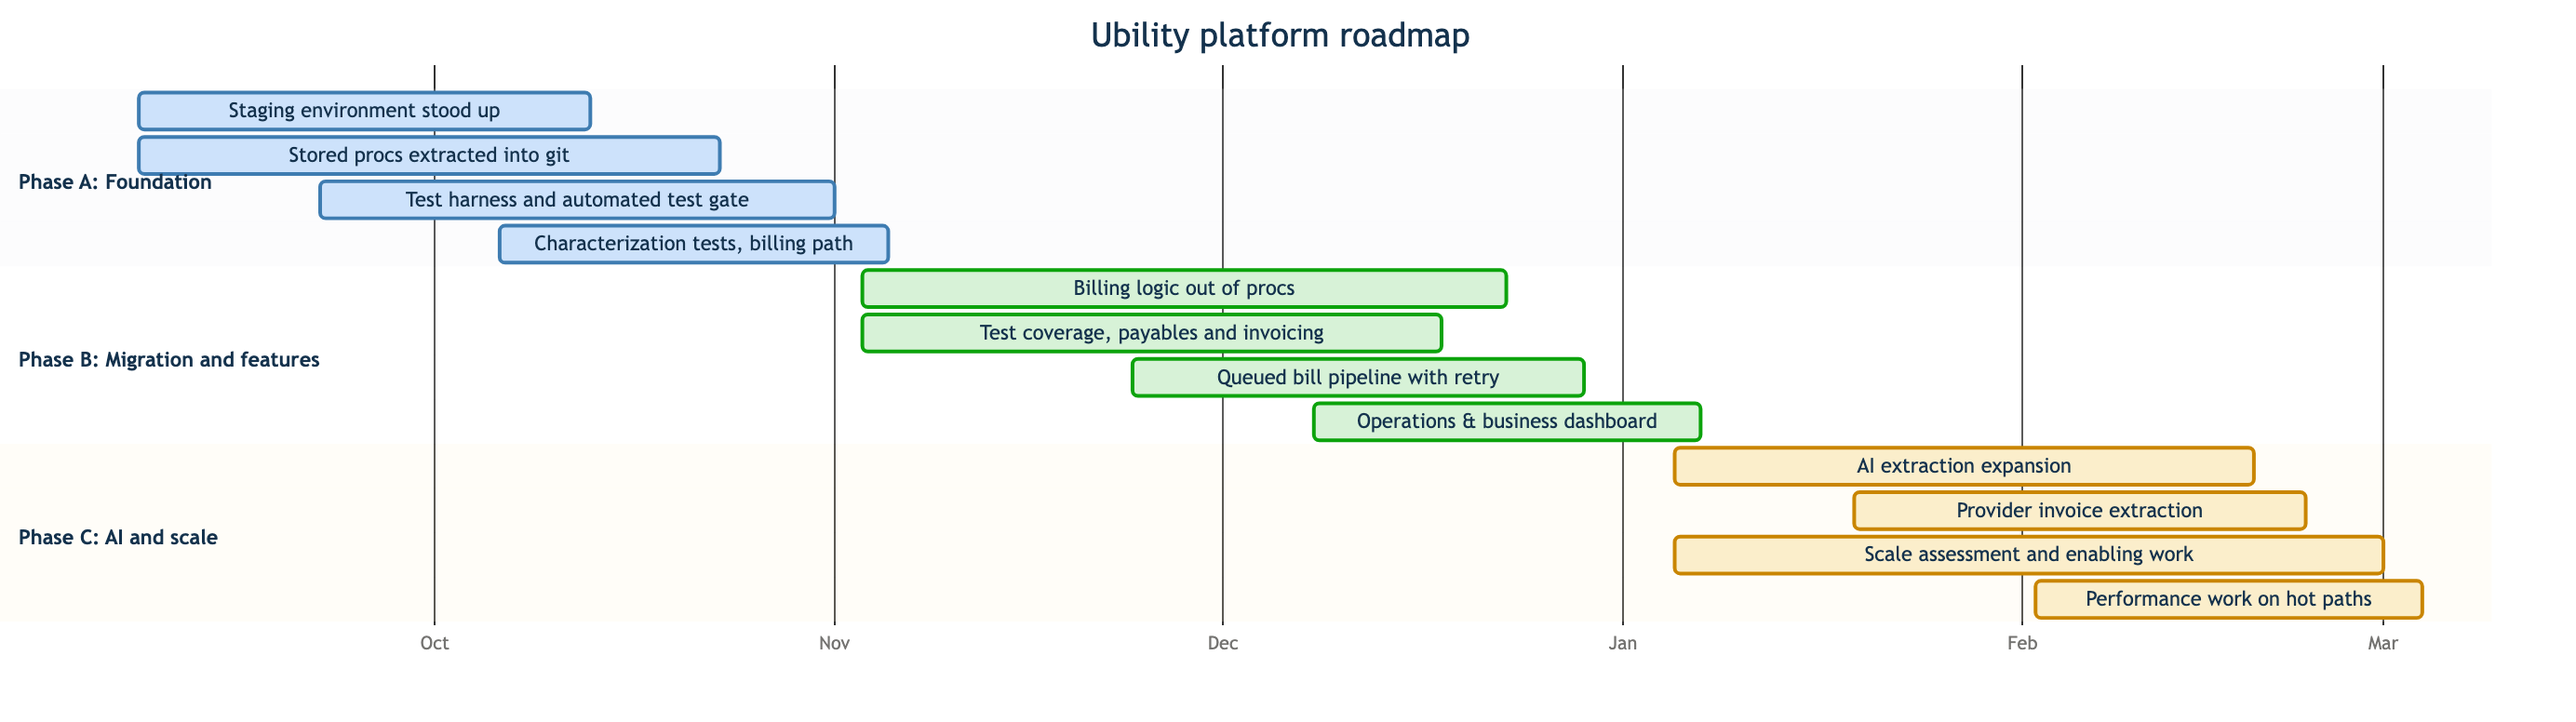
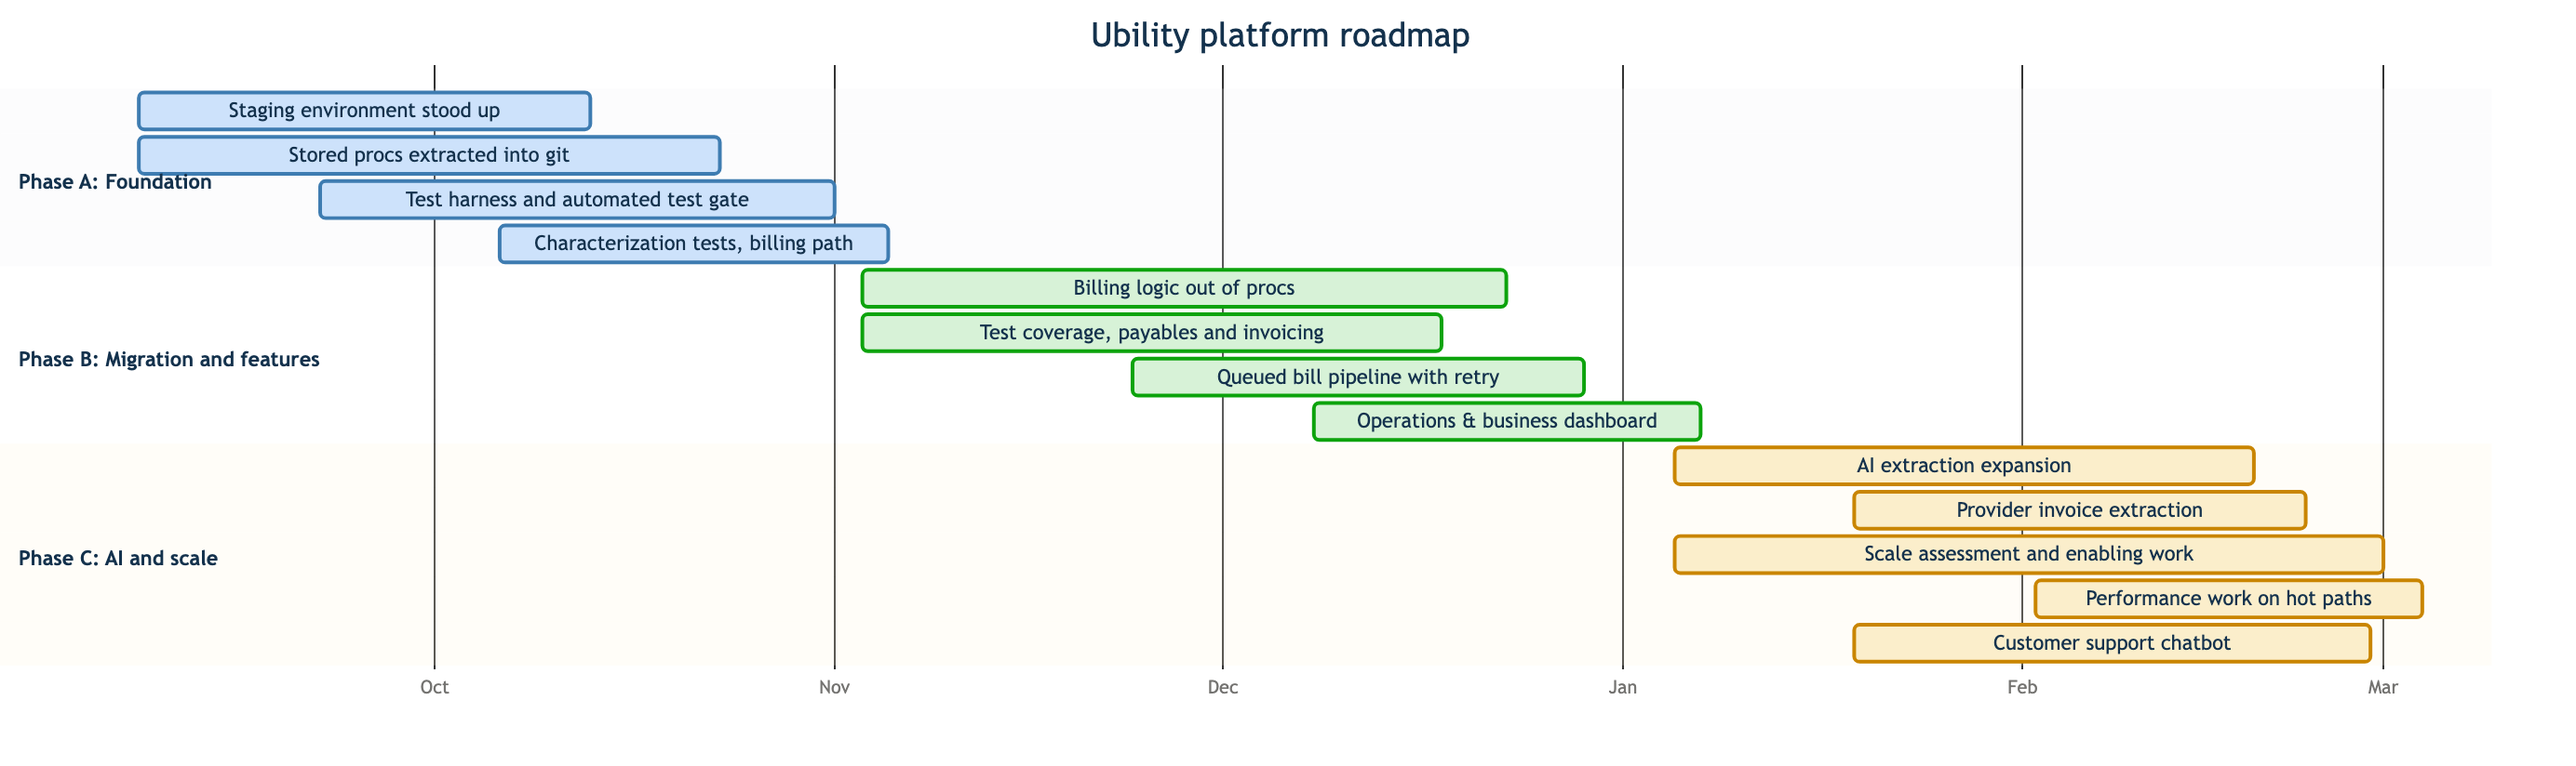
docs: scope in a customer support chatbot, add maintenance-only pricing tier
Adds a new roadmap item (16, Phase C): a customer-facing support
chatbot built on the existing Claude/c4-extract integration, answering
common billing/account questions with a handoff to a person for
anything it can't answer confidently. Wired into the executive
summary, the AI-approach section, the Gantt chart, and the Phase C
pricing scope summary.

Used "customer-facing" rather than "resident-facing" throughout,
matching Ubility's own wording in their meeting question and hedging
appropriately given we haven't confirmed residents are actually the
ones self-serving through the portal versus staff acting on their
behalf.

Also adds Option 3 to Pricing: a lower-cost, maintenance-only tier
($6,000/month) that only becomes available once the roadmap's
foundational work is complete, since the platform isn't safe for
hands-off maintenance before then. Gives concrete shape to the
existing "revisit scope together at the end of six months" line
elsewhere in the doc.

diff --git a/docs/projects/ubility/ongoing-partnership/ubility-partnership-proposal.md b/docs/projects/ubility/ongoing-partnership/ubility-partnership-proposal.md
@@ -12,7 +12,7 @@ Ubility has a working product with real customers, real revenue, and real third-
 
 ### The proposal
 
-Keystone is proposing a six-month, fixed-scope roadmap that turns this platform into something a team can safely change, test, and grow, not just keep alive: a staging environment and real test coverage first, then the highest-risk business logic moved out of the database into reviewable, tested code, the business-visibility tools Ubility has been asking for, and an expansion of the AI extraction already running in production, alongside a costed plan for real horizontal scale. **Keystone is already inside this codebase**: the six-repository audit is done, the original security report has been independently verified and corrected, and all 599 stored procedures are already inventoried, so none of that ramp-up gets billed here. The engineers doing the work have built production systems at Stripe, Microsoft, and Amazon, where a mistake is a public outage, not a support ticket, and every conversation is directly with the person doing the work, with no account layer in between. **Pricing is to the outcome, not the hour**, so the incentive on both sides is the same: get it done well, and get it done fast. And unlike the alternative Ubility is weighing, **nothing here locks Ubility in**: the code and infrastructure stay in Ubility's own accounts throughout, so this platform stays just as easy to hand to another firm, or bring in-house, as it is to keep working with Keystone.
+Keystone is proposing a six-month, fixed-scope roadmap that turns this platform into something a team can safely change, test, and grow, not just keep alive: a staging environment and real test coverage first, then the highest-risk business logic moved out of the database into reviewable, tested code, the business-visibility tools Ubility has been asking for, and an expansion of the AI extraction already running in production, including a customer-facing support chatbot, alongside a costed plan for real horizontal scale. **Keystone is already inside this codebase**: the six-repository audit is done, the original security report has been independently verified and corrected, and all 599 stored procedures are already inventoried, so none of that ramp-up gets billed here. The engineers doing the work have built production systems at Stripe, Microsoft, and Amazon, where a mistake is a public outage, not a support ticket, and every conversation is directly with the person doing the work, with no account layer in between. **Pricing is to the outcome, not the hour**, so the incentive on both sides is the same: get it done well, and get it done fast. And unlike the alternative Ubility is weighing, **nothing here locks Ubility in**: the code and infrastructure stay in Ubility's own accounts throughout, so this platform stays just as easy to hand to another firm, or bring in-house, as it is to keep working with Keystone.
 
 ---
 
@@ -237,6 +237,7 @@ gantt
     Provider invoice extraction            :c2, 2027-01-19, 35d
     Scale assessment and enabling work     :c3, 2027-01-05, 55d
     Performance work on hot paths          :c4, 2027-02-02, 30d
+    Customer support chatbot               :c5, 2027-01-19, 40d
 ```
 
 Dates assume a start as the remediation engagement completes. They shift together if the start shifts.
@@ -272,8 +273,9 @@ Nothing else on this roadmap is safe to do until this exists.
 | 13 | **Natural-language query over billing and operational data**, including the metrics layer from item 9, for admin staff, scoped to read-only reporting against the data model, so a staff member can ask a question without an engineer writing a report. | Second half of the better-tools ask: instead of only a fixed dashboard, staff can ask a specific question directly. Deliberately scoped read-only. |
 | 14 | **Scale assessment and enabling work.** Packaging the backend so it can run as multiple identical copies instead of one, in a way that is not tied to AWS specifically, so a future move to Azure or another major cloud stays possible rather than locking Ubility further into one provider. Also externalizing its configuration, making session state independent of any single copy, plus a written assessment with a recommended target setup, a cost comparison, and a sequenced cutover plan. This new version of the backend gets built and proven in the staging environment from Phase A first; only once it holds up there does a production copy get stood up and traffic cut over to it, rather than changing the live Windows VM in place. | The current single Windows VM has no horizontal scaling path. This phase makes the backend capable of running as more than one instance and produces the plan for actually doing it, with real numbers attached. |
 | 15 | **Performance work on the paths surfaced by the assessment**, now measurable because the logic is in code and covered by tests. | Optimizing stored procedures nobody can test is guesswork. By month 5, it is not. |
+| 16 | **Customer-facing support chatbot**, built on the same Claude integration already running in production, answering common billing and account questions directly (balance, due date, payment history, how a charge was calculated), with a clear handoff to a person for anything it cannot answer with confidence. | Turns AI capability the end customer never sees today into something they interact with directly, and is a fast, visible result once the underlying data is trustworthy from the earlier phases. |
 
-Every item above traces back to a specific finding in the security audit or the system architecture map already delivered. None of it is generic modernization work.
+Every item above traces back to a specific finding in the security audit or the system architecture map already delivered, or a direct ask from Ubility's team. None of it is generic modernization work.
 
 ---
 
@@ -281,7 +283,7 @@ Every item above traces back to a specific finding in the security audit or the 
 
 Two separate answers, because they are two separate things.
 
-**In the product.** Ubility already runs Claude in production through `c4-extract` for utility bill extraction. That is a real foundation and the reason the AI items on this roadmap are extensions rather than experiments. The roadmap expands it along the axes that actually reduce manual work: more bill formats, confidence scoring so uncertain results are routed to a human instead of silently accepted, the same pipeline applied to provider invoices, and natural-language reporting for admin staff. The constraint we hold to is that AI output touching billing data is either verified by a deterministic check or routed to a person, never written straight to the ledger on confidence alone.
+**In the product.** Ubility already runs Claude in production through `c4-extract` for utility bill extraction. That is a real foundation and the reason the AI items on this roadmap are extensions rather than experiments, not new capability being invented from scratch. The roadmap expands it along the axes that actually reduce manual work and directly touch the end customer: more bill formats, confidence scoring so uncertain results are routed to a human instead of silently accepted, the same pipeline applied to provider invoices, natural-language reporting for admin staff, and a customer-facing support chatbot answering common billing and account questions directly. The constraint we hold to is the same across all of it: AI output touching billing data, or an answer given directly to a customer, is either verified by a deterministic check or handed off to a person, never written straight to the ledger or stated to a customer on confidence alone.
 
 **One thing we don't yet know, and will confirm early.** The Anthropic (Claude) API key currently in production is a single, shared credential, but where it actually comes from is not confirmed from the repos alone: whose account it is billed to, what usage limits it runs under, and whether it is still tied to the prior engineer personally rather than a Ubility-owned account. That last possibility deserves the same treatment as the other credentials already being rotated in the remediation work: a key tied to a person who is no longer here is a real operational risk, not just an administrative detail. Confirming ownership, and moving it to a Ubility-owned account if needed, happens early rather than being left as an assumption.
 
@@ -315,7 +317,7 @@ The entire six-month roadmap quoted as one total, invoiced in six equal installm
 |---|---|---|
 | Phase A | 1 to 2 | Staging environment, stored procedures into version control, test harness and automated test gate, characterization tests on the billing path, migration plan |
 | Phase B | 3 to 4 | Billing logic migrated out of stored procedures, test coverage on payables and invoicing, queued bill pipeline with retry and exception handling, operations and business metrics dashboard, jointly scoped feature slot |
-| Phase C | 5 to 6 | AI extraction expansion with confidence scoring, provider invoice extraction, natural-language reporting, scale assessment and enabling work, performance work |
+| Phase C | 5 to 6 | AI extraction expansion with confidence scoring, provider invoice extraction, natural-language reporting, customer-facing support chatbot, scale assessment and enabling work, performance work |
 
 Invoiced at **$17,000 per month for six months** ($102,000 total). Production support, incident response, and the weekly check-in are included throughout at no additional charge.
 
@@ -330,6 +332,18 @@ This option prices the outcome of the full roadmap rather than a month of availa
 | After the initial term | Month to month, 30 days notice |
 
 Same roadmap, same phase sequence, same included production support. Ubility can stop after any month past the initial term without owing the balance of the roadmap. Over a full six months this comes to $108,000, a $6,000 premium over Option 1, which is the price of that flexibility.
+
+### Option 3: Maintenance-only, once the foundation is in place
+
+Not available starting today, and deliberately so: the platform isn't in a state where hands-off maintenance is safe until the roadmap's foundational work is done. Once it is, this becomes a real, lower-cost path if Ubility wants to shift from active development to just keeping things running.
+
+| Item | Price |
+|---|---|
+| Maintenance and support, no active development | **$6,000 per month** |
+| Minimum term | 3 months |
+| After the initial term | Month to month, 30 days notice |
+
+This covers production support, incident response, and the same monitoring and response times described earlier, plus ongoing security hygiene, but does not carry a committed development scope the way Options 1 and 2 do. It is the right fit if the six-month roadmap gets Ubility to where it needs to be and active feature work should pause, not the right fit if new development is still wanted, in which case Option 2 stays available on the same terms. This is one concrete version of the conversation described above about revisiting scope together at the end of the six months, not the only one.
 
 ### Capacity reserved for whatever matters most
 
